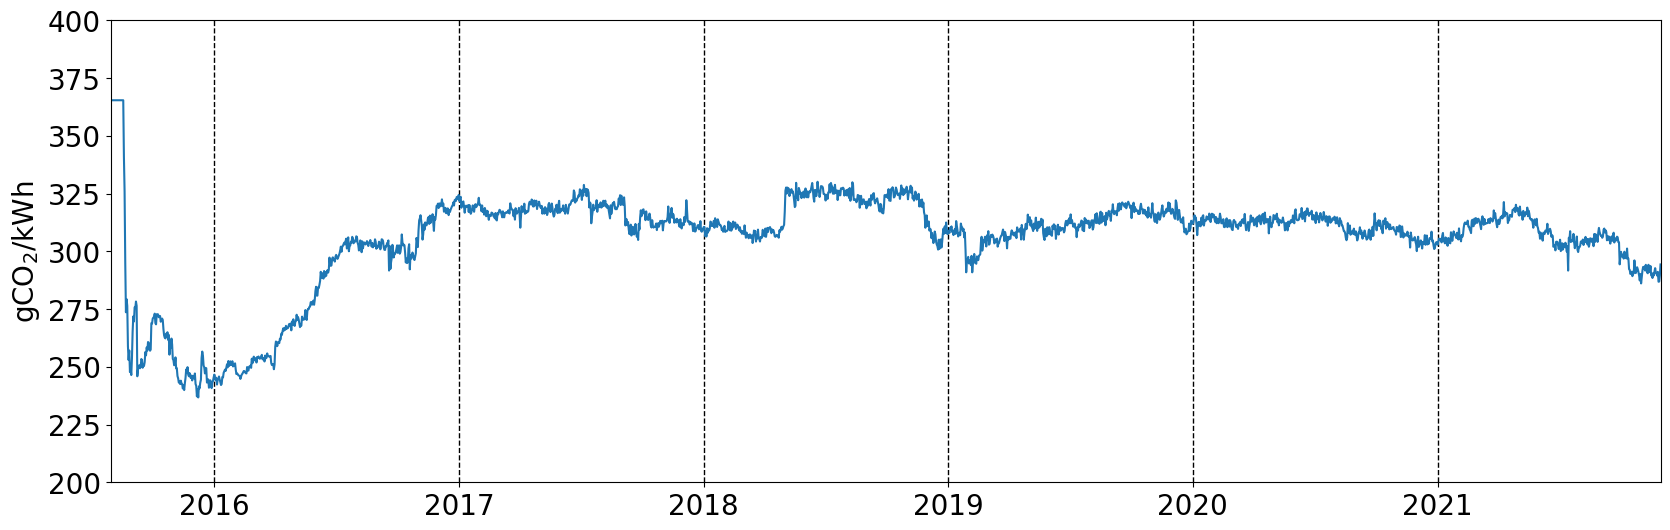
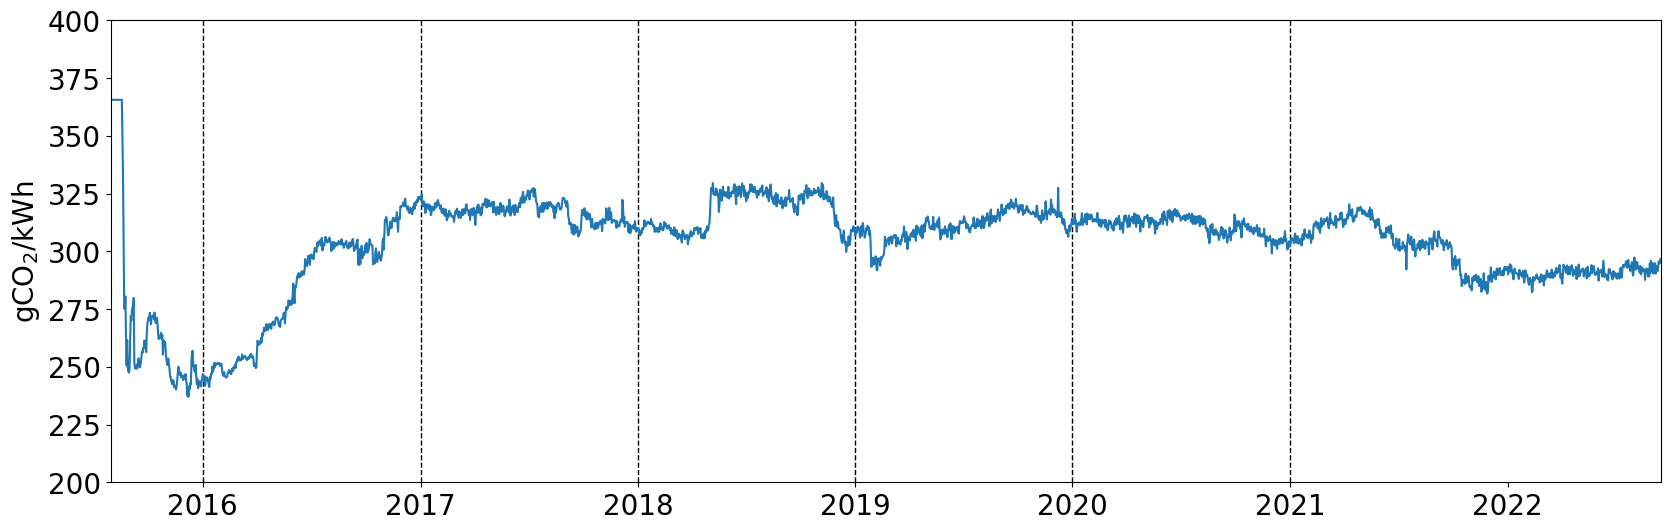
render final diagrams

diff --git a/package_power_emissions.py b/package_power_emissions.py
@@ -17,7 +17,7 @@ plt.rcParams['font.size'] = 20
 
 def plot_annual(results, ylabel, label=None):
     fig = plt.figure(figsize=(20,6), facecolor='white')
-    for year in range(2016, 2022):
+    for year in range(2016, 2023):
         plt.axvline(datetime.datetime(year,1,1), color='k', lw=1, linestyle='--')
     plt.plot(dates, results['best'], lw=2, label=label)
     plt.fill_between(dates, results['lower'], results['upper'], alpha=0.25)
